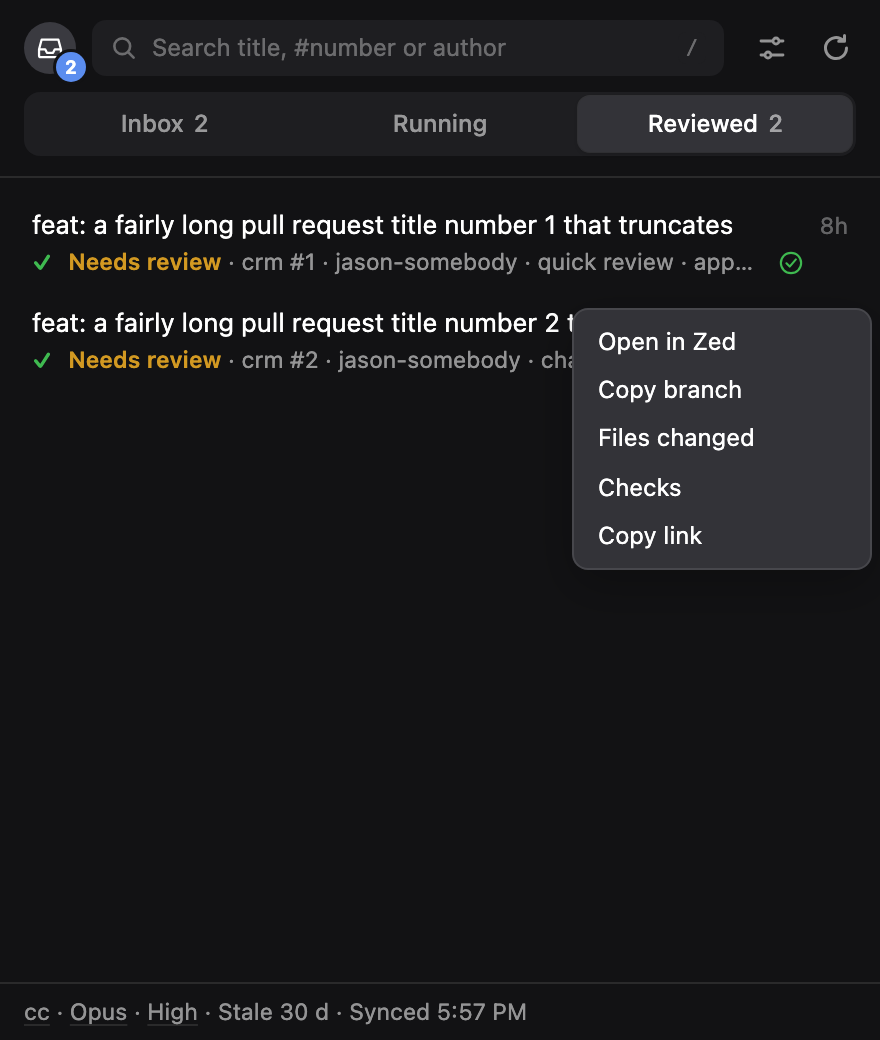
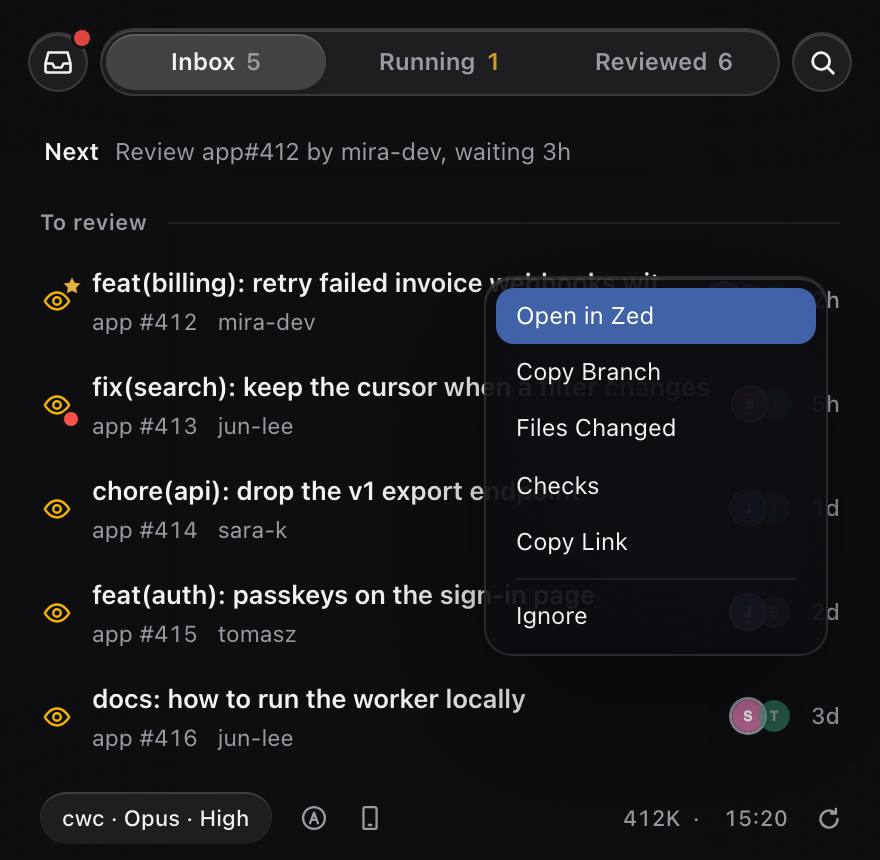
Refresh the README screenshots
Claude-Session: https://claude.ai/code/session_01BqG7HfazyL6p1cddYdUZxb

diff --git a/README.md b/README.md
@@ -11,7 +11,7 @@
 
 <p align="center">
   <img src="docs/board-dark.png" width="400" alt="The board in dark mode with the right-click menu open on a PR card">
-  <img src="docs/settings-light.png" width="400" alt="The board in light mode with the settings popover open">
+  <img src="docs/settings-light.png" width="400" alt="The board in light mode with the settings card raised over the blurred list">
 </p>
 
 Sidak (Indonesian: *inspeksi mendadak*, a surprise inspection) lists the pull requests waiting on you. One click starts
